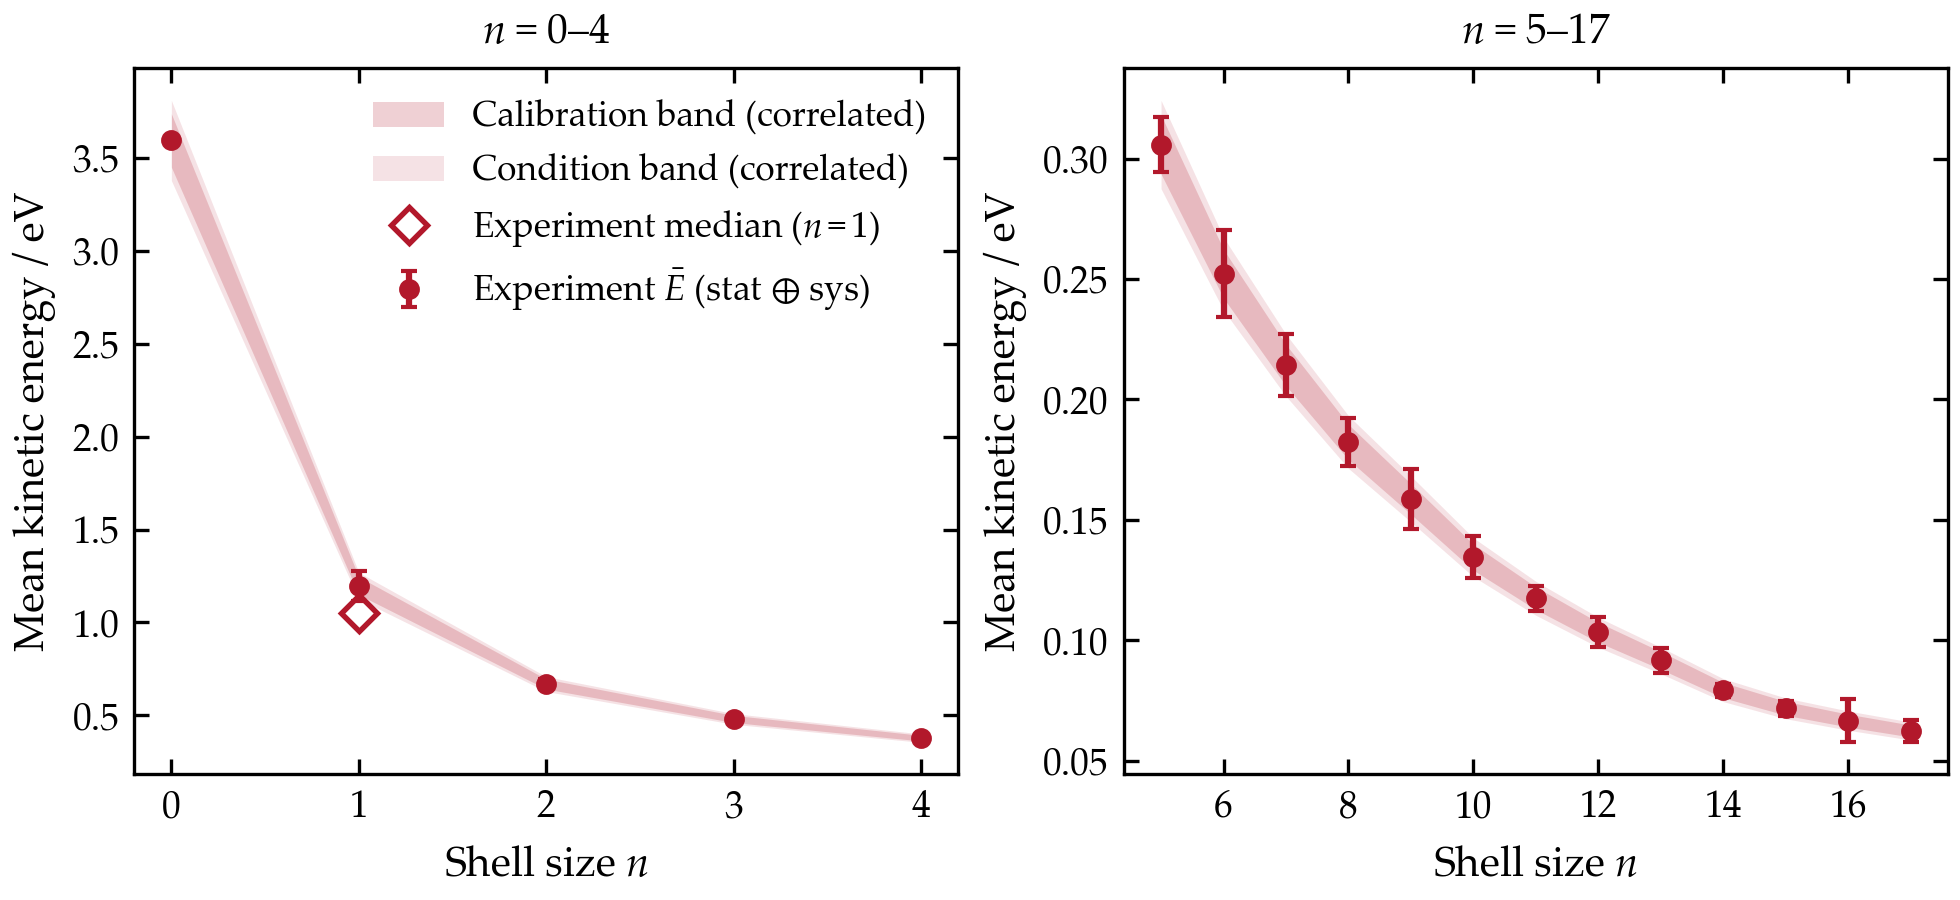
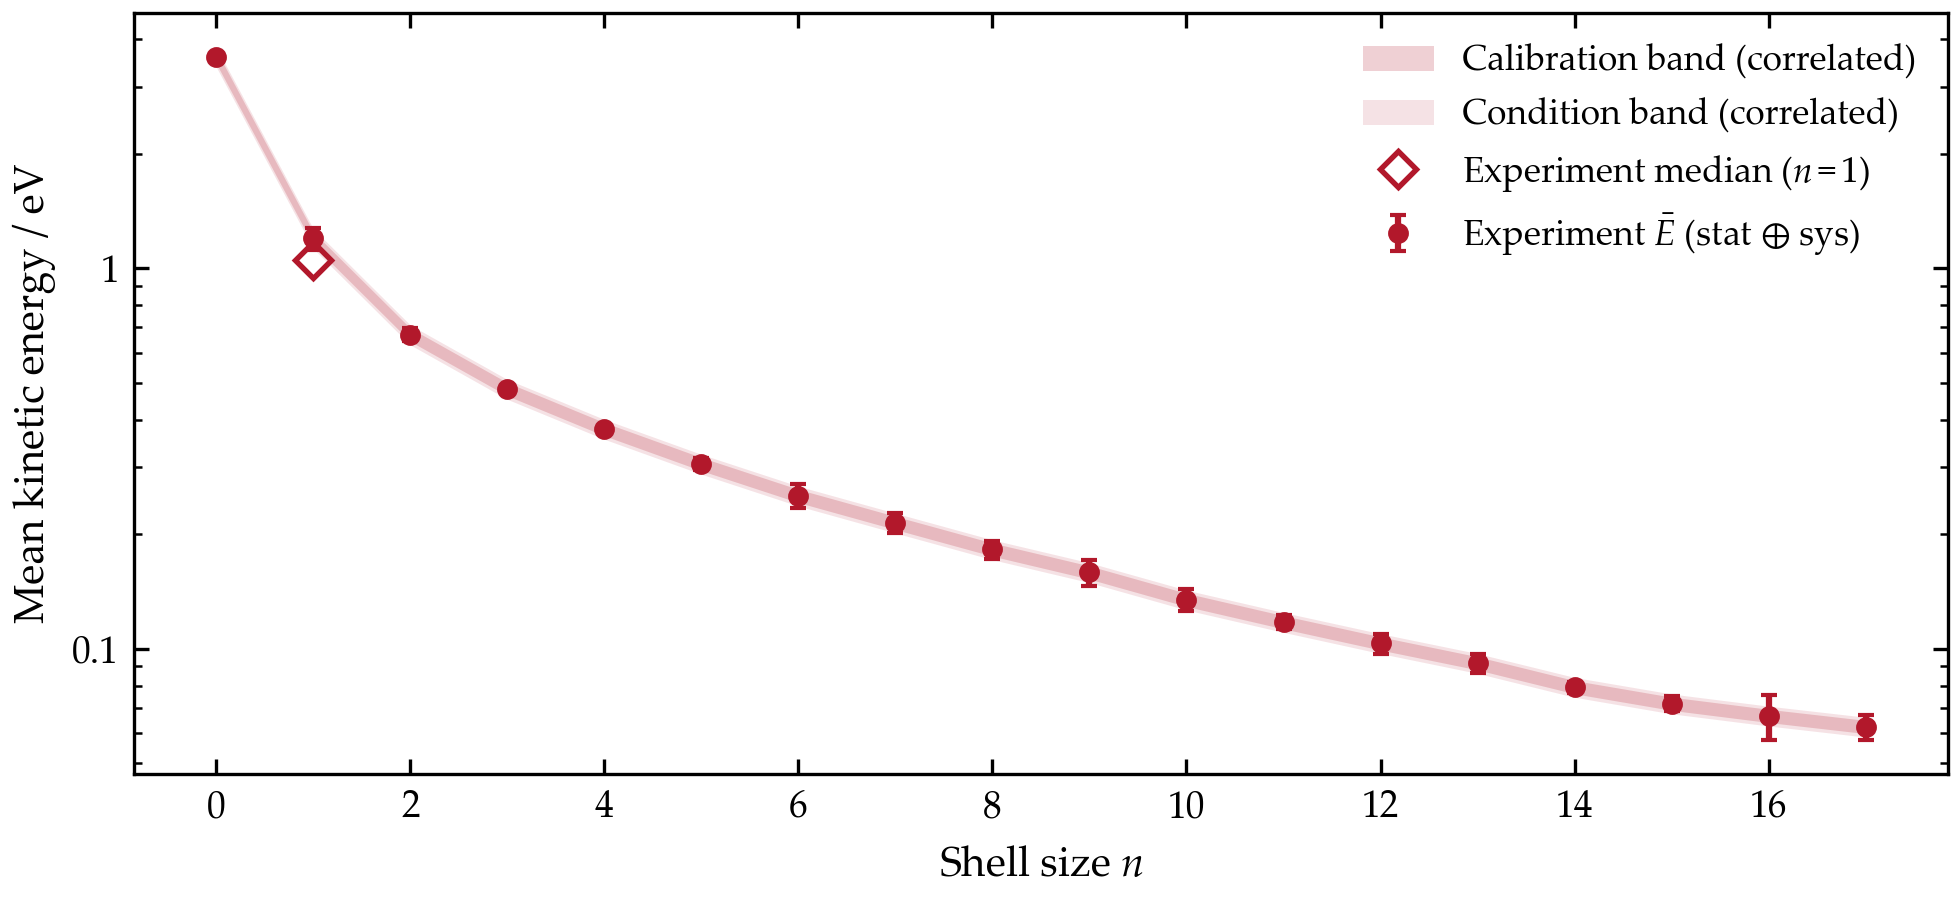
Minor plot changes to log for ked distr.

diff --git a/i2_helium_md/scripts/post_processing/plot_ihe_ked_reference_mean_energy.py b/i2_helium_md/scripts/post_processing/plot_ihe_ked_reference_mean_energy.py
@@ -6,18 +6,17 @@ Thesis figure for the *experimental reference* chapter: the
 no detected-ensemble points, no chi^2 annotation, hence no run directory
 is needed. Only ``data/reference/ihe_ked/IHe_KED_reference.csv`` is read.
 
-Recipe parity (rule 1 -- this script re-uses the plot-tuning constants of
-``summary_sections.py`` rather than restating them): identical split
-layout (left ``n = n_min..split-1``, right ``n = split..n_max``, each on
-its own linear scale), identical error model -- per-point
-``sqrt(stat^2 + sys^2)`` error bars, the two *correlated* fractional
-scale bands (calibration, condition) drawn as multiplicative envelopes,
-never folded into the per-point bars -- and the same n = 1 median anchor
-(I77) marker.
+Layout: one full-width panel over all n on a logarithmic energy axis
+(``YSCALE``), as panel (a) of the B2 thesis figure ``b2_2_mean_ke``
+(``tier2_b2_thesis_figure.py``). Error model as the detection-summary
+panel -- per-point ``sqrt(stat^2 + sys^2)`` error bars, the two
+*correlated* fractional scale bands (calibration, condition) drawn as
+multiplicative envelopes, never folded into the per-point bars -- and the
+same n = 1 median anchor (I77) marker.
 
 Two versions are written: ``ihe_ked_reference_mean_energy`` from ``n = 1``, as the
 detection-summary panel, and ``ihe_ked_reference_mean_energy_with_bare`` from
-``n = 0``, with the bare I+ point in the left panel.
+``n = 0``, with the bare I+ point.
 
 Units: energies in eV, ``n`` = number of attached He atoms.
 
@@ -43,14 +42,11 @@ import matplotlib  # noqa: E402
 matplotlib.use("Agg")
 import matplotlib.pyplot as plt  # noqa: E402
 import numpy as np  # noqa: E402
-from matplotlib.ticker import MaxNLocator  # noqa: E402
+from matplotlib.ticker import FuncFormatter, MaxNLocator  # noqa: E402
 
 from i2_helium_md.postprocess import load_ihe_ked_reference  # noqa: E402
 
-from summary_sections import (  # noqa: E402
-    DETECTED_KE_N_MIN,
-    IHE_KED_MEAN_ENERGY_SPLIT_N,
-)
+from summary_sections import DETECTED_KE_N_MIN  # noqa: E402
 from thesis_style import EXP_COLOR, FIG_RC, FONT, TEXTWIDTH_IN, style_axis  # noqa: E402
 
 # =============================================================================
@@ -75,6 +71,9 @@ VARIANTS: dict[str, int] = {
 # Draw the n = 1 median-KE marker (I77 operative anchor) alongside <E>.
 SHOW_MEDIAN_ANCHOR: bool = True
 
+# Energy axis scale: "log" (as b2_2_mean_ke panel (a)) or "linear".
+YSCALE: str = "log"
+
 # Figure title; None = untitled (the thesis caption carries the title).
 TITLE: str | None = None
 
@@ -88,12 +87,12 @@ def build_reference_mean_energy_figure(
     ked_ref,
     *,
     n_min: int = DETECTED_KE_N_MIN,
-    split: int = IHE_KED_MEAN_ENERGY_SPLIT_N,
     show_median_anchor: bool = True,
+    yscale: str = YSCALE,
     title: str | None = None,
     figsize: tuple[float, float] = FIGSIZE,
 ) -> plt.Figure:
-    """Experiment-only split-panel mean-KE figure of the ihe_ked reference.
+    """Experiment-only single-panel mean-KE figure of the ihe_ked reference.
 
     Parameters
     ----------
@@ -101,10 +100,11 @@ def build_reference_mean_energy_figure(
         Loaded reference table (energies eV, fractional bands in [0, 1]).
     n_min
         Lowest fragment n rendered (0 includes the bare I+ point).
-    split
-        Panel split: left ``n_min <= n < split``, right ``n >= split``.
     show_median_anchor
         Draw the n = 1 median-KE marker (I77 operative anchor).
+    yscale
+        ``"log"`` (plain-number tick labels, as b2_2_mean_ke panel (a)) or
+        ``"linear"``.
     title
         Figure suptitle; ``None`` leaves the figure untitled.
     figsize
@@ -113,13 +113,16 @@ def build_reference_mean_energy_figure(
     Returns
     -------
     matplotlib.figure.Figure
-        Two axes; each panel is linear in y. Empty panels are switched off.
+        One axis, all n >= ``n_min``.
 
     Raises
     ------
     ValueError
-        If no fragment row satisfies ``n >= n_min``.
+        If no fragment row satisfies ``n >= n_min``, or ``yscale`` is not
+        ``"log"`` / ``"linear"``.
     """
+    if yscale not in ("log", "linear"):
+        raise ValueError(f"yscale must be 'log' or 'linear', got {yscale!r}")
     mean = ked_ref.mean_KE_eV
     selected = ked_ref.n >= n_min
     if not np.any(selected):
@@ -127,47 +130,36 @@ def build_reference_mean_energy_figure(
             f"no reference rows with n >= {n_min} "
             f"(available n = {ked_ref.n.min()}..{ked_ref.n.max()})"
         )
-    n_max = int(ked_ref.n.max())
 
-    fig, axes = plt.subplots(1, 2, figsize=figsize, constrained_layout=True)
-    panel_specs = (
-        (axes[0], ked_ref.n < split, f"$n$ = {n_min}–{split - 1}", True),
-        (axes[1], ked_ref.n >= split, f"$n$ = {split}–{n_max}", False),
-    )
-    for ax, subset, panel_title, show_legend in panel_specs:
-        subset = subset & selected
-        if not np.any(subset):
-            ax.set_axis_off()
-            continue
-        for frac, label, alpha in (
-            (ked_ref.calib_syst_frac, "Calibration band (correlated)", 0.20),
-            (ked_ref.condition_syst_frac, "Condition band (correlated)", 0.12),
-        ):
-            ax.fill_between(
-                ked_ref.n[subset],
-                mean[subset] * (1.0 - frac[subset]),
-                mean[subset] * (1.0 + frac[subset]),
-                color=EXP_COLOR, alpha=alpha, linewidth=0, label=label,
-            )
-        ax.errorbar(
-            ked_ref.n[subset], mean[subset],
-            yerr=ked_ref.point_err_eV[subset], fmt="o",
-            color=EXP_COLOR, markersize=4, capsize=2,
-            label=r"Experiment $\bar{E}$ (stat $\oplus$ sys)")
-        anchor_hit = subset & (ked_ref.n == 1)
-        if show_median_anchor and np.any(anchor_hit):
-            ax.plot(ked_ref.n[anchor_hit], ked_ref.median_KE_eV[anchor_hit],
-                    "D", markersize=6, markerfacecolor="none",
-                    markeredgecolor=EXP_COLOR, markeredgewidth=1.3,
-                    label="Experiment median ($n = 1$)")
-        ax.set(xlabel=r"Shell size $n$", ylabel="Mean kinetic energy / eV")
-        ax.set_title(panel_title, fontsize=FONT["title_fontsize"])
-        # n is an integer count -- suppress matplotlib's fractional ticks
-        # (visible on the narrow left panel, where only a few n are shown).
-        ax.xaxis.set_major_locator(MaxNLocator(integer=True))
-        style_axis(ax)
-        if show_legend:
-            ax.legend(frameon=False, fontsize=FONT["legend_fontsize"], loc="upper right")
+    fig, ax = plt.subplots(figsize=figsize, constrained_layout=True)
+    for frac, label, alpha in (
+        (ked_ref.calib_syst_frac, "Calibration band (correlated)", 0.20),
+        (ked_ref.condition_syst_frac, "Condition band (correlated)", 0.12),
+    ):
+        ax.fill_between(
+            ked_ref.n[selected],
+            mean[selected] * (1.0 - frac[selected]),
+            mean[selected] * (1.0 + frac[selected]),
+            color=EXP_COLOR, alpha=alpha, linewidth=0, label=label,
+        )
+    ax.errorbar(
+        ked_ref.n[selected], mean[selected],
+        yerr=ked_ref.point_err_eV[selected], fmt="o",
+        color=EXP_COLOR, markersize=4, capsize=2,
+        label=r"Experiment $\bar{E}$ (stat $\oplus$ sys)")
+    anchor_hit = selected & (ked_ref.n == 1)
+    if show_median_anchor and np.any(anchor_hit):
+        ax.plot(ked_ref.n[anchor_hit], ked_ref.median_KE_eV[anchor_hit],
+                "D", markersize=6, markerfacecolor="none",
+                markeredgecolor=EXP_COLOR, markeredgewidth=1.3,
+                label="Experiment median ($n = 1$)")
+    ax.set(yscale=yscale, xlabel=r"Shell size $n$", ylabel="Mean kinetic energy / eV")
+    if yscale == "log":
+        ax.yaxis.set_major_formatter(FuncFormatter(lambda y, _: f"{y:g}"))
+    # n is an integer count -- suppress matplotlib's fractional ticks.
+    ax.xaxis.set_major_locator(MaxNLocator(integer=True))
+    style_axis(ax)
+    ax.legend(frameon=False, fontsize=FONT["legend_fontsize"], loc="upper right")
     if title is not None:
         fig.suptitle(title, fontsize=FONT["title_fontsize"])
     return fig
@@ -183,6 +175,7 @@ def main() -> None:
                 ked_ref,
                 n_min=n_min,
                 show_median_anchor=SHOW_MEDIAN_ANCHOR,
+                yscale=YSCALE,
                 title=TITLE,
                 figsize=FIGSIZE,
             )

diff --git a/i2_helium_md/tests/test_plot_ihe_ked_reference_mean_energy.py b/i2_helium_md/tests/test_plot_ihe_ked_reference_mean_energy.py
@@ -58,11 +58,12 @@ def ked_ref():
     return load_ihe_ked_reference(_REFERENCE_CSV)
 
 
-def test_renders_two_panels_without_a_run_directory(script_module, ked_ref):
+def test_renders_one_log_panel_without_a_run_directory(script_module, ked_ref):
     fig = script_module.build_reference_mean_energy_figure(ked_ref)
     try:
-        assert len(fig.axes) == 2
-        # Left panel carries the experiment series and both correlated
+        assert len(fig.axes) == 1
+        assert fig.axes[0].get_yscale() == "log"   # default YSCALE, as b2_2_mean_ke (a)
+        # The panel carries the experiment series and both correlated
         # bands -- and no simulation series at all.
         labels = fig.axes[0].get_legend_handles_labels()[1]
         assert any("experiment" in lbl.lower() for lbl in labels)
@@ -70,6 +71,16 @@ def test_renders_two_panels_without_a_run_directory(script_module, ked_ref):
         assert not any("simulation" in lbl.lower() for lbl in labels)
     finally:
         plt.close(fig)
+
+
+def test_linear_scale_option_and_bad_scale(script_module, ked_ref):
+    fig = script_module.build_reference_mean_energy_figure(ked_ref, yscale="linear")
+    try:
+        assert fig.axes[0].get_yscale() == "linear"
+    finally:
+        plt.close(fig)
+    with pytest.raises(ValueError, match="yscale"):
+        script_module.build_reference_mean_energy_figure(ked_ref, yscale="symlog")
 
 
 def test_n_min_zero_adds_the_bare_fragment(script_module, ked_ref):
@@ -96,7 +107,7 @@ def test_rejects_an_empty_fragment_selection(script_module, ked_ref):
 
 
 def _scatter_x(script_module, ked_ref, *, n_min: int) -> np.ndarray:
-    """x values of every errorbar-plotted point across both panels."""
+    """x values of every errorbar-plotted point in the figure."""
     fig = script_module.build_reference_mean_energy_figure(
         ked_ref, n_min=n_min
     )
